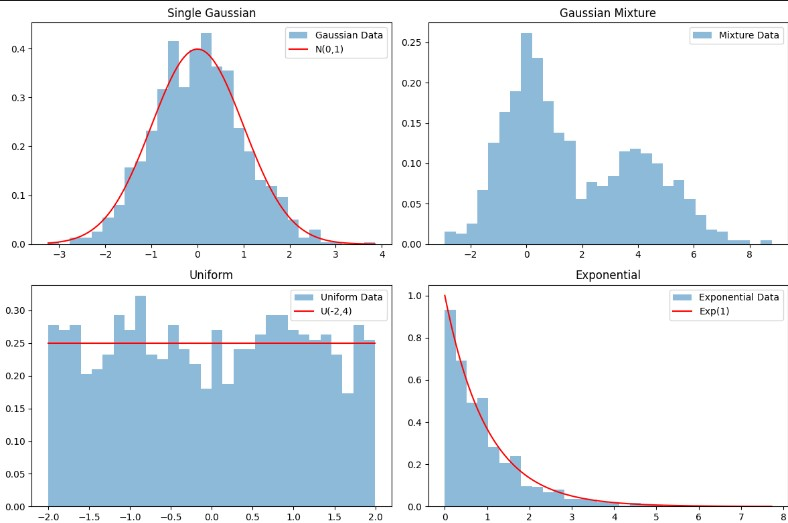
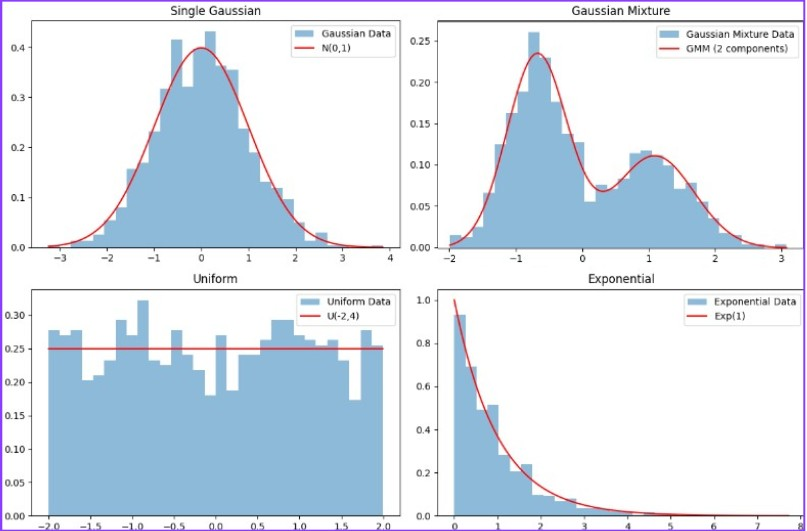
final push

diff --git a/index.html b/index.html
@@ -247,7 +247,7 @@
         <section id="comparison" class="py-20 md:py-24">
             <div class="container mx-auto px-6 max-w-4xl">
                 <div class="text-content text-center">
-                    <h2 class="glow text-4xl lg:text-5xl font-bold text-white mb-4">Log-Likelihood Comparison Across Different Datasets</h2>
+                    <h2 class="glow text-4xl lg:text-5xl font-bold text-white mb-4">Log-Likelihood Comparison on Mixed Distributions</h2>
                     <p class="text-lg text-slate-300 mb-12"></p>
                 </div>
                 <div class="grid grid-cols-1 md:grid-cols-3 gap-8 text-center">
@@ -255,31 +255,31 @@
                         <img onclick="openModal(this.src)" src="gaussian_projection.jpg" alt="Optimize Flow" class="cursor-pointer mb-4 w-32 h-32 object-contain rounded-xl shadow-lg transition-transform duration-200 hover:scale-105">
                         <p class="text-base text-slate-500 mb-2"></p>
                         <h3 class="text-2xl font-bold text-purple-300 mb-3">Actual Fit</h3>
-                        <p class="text-slate-400 text-md">The actual graph of how the data looks like.</p>
+                        <p class="text-slate-400 text-md">The actual fit</p>
                     </div>
                     <div class="glassmorphism p-8 min-h-[420px] rounded-2xl flex flex-col items-center">
                         <img onclick="openModal(this.src)" src="perfect_fit.jpg" alt="Collaborate" class="cursor-pointer mb-4 w-32 h-32 object-contain rounded-xl shadow-lg transition-transform duration-200 hover:scale-105">
                         <p class="text-base text-slate-500 mb-2"></p>
-                        <h3 class="text-2xl font-bold text-purple-300 mb-3">Standard fit</h3>
-                        <p class="text-slate-400 text-md">The graph confirms the Gaussian dataset aligns with N(0,1) (statistic 0.3475 < critical value 0.7840), while Gaussian Mixture (20.1182), Uniform (12.0752), and Exponential (49.7306) are non-Gaussian. This highlights the need for flexible models like Normalizing Flows for LISA’s complex data distributions.</p>
+                        <h3 class="text-2xl font-bold text-purple-300 mb-3">Standard fit using Anderson-Darling Test</h3>
+                        <p class="text-slate-400 text-md">Gaussian dataset aligns with N(0,1) (statistic 0.3475 < critical value 0.7840), while Gaussian Mixture (20.1182), Uniform (12.0752), and Exponential (49.7306) are non-Gaussian distributions.</p>
                     </div>
                     <div class="glassmorphism p-8 min-h-[420px] rounded-2xl flex flex-col items-center">
                         <img onclick="openModal(this.src)" src="GMM_fit.jpg" alt="Test on Data" class="cursor-pointer mb-4 w-32 h-32 object-contain rounded-xl shadow-lg transition-transform duration-200 hover:scale-105">
                         <p class="text-base text-slate-500 mb-2"></p>
                         <h3 class="text-2xl font-bold text-purple-300 mb-3">Gaussian Mixture Model Fit</h3>
-                        <p class="text-slate-400 text-md">The graph shows GMM fits with 1 component for Gaussian data (log-likelihood ~2.20) and 2–3 components for Gaussian Mixture (1.90), Uniform (1.10), and Exponential (1.30). GMMs capture Gaussian-like structures but struggle with non-Gaussian data, highlighting limitations for LISA’s complex signals.</p>
+                        <p class="text-slate-400 text-md">The graph shows how Gaussian Mixture Models (GMMs) fit different types of data using a certain number of components. For Gaussian data, the best fit came from using just 1 component. But for more complex datasets like the Gaussian Mixture, Uniform, and Exponential ones, 2 or 3 components were needed to describe the data better.</p>
                     </div>
                     <div class="glassmorphism p-8 min-h-[420px] rounded-2xl flex flex-col items-center">
-                        <img onclick="openModal(this.src)" src="gmm_vs_nf.jpg" alt="Card 4" class="cursor-pointer mb-4 w-32 h-32 object-contain rounded-xl shadow-lg transition-transform duration-200 hover:scale-105">
+                        <img onclick="openModal(this.src)" src="output.png" alt="Card 4" class="cursor-pointer mb-4 w-32 h-32 object-contain rounded-xl shadow-lg transition-transform duration-200 hover:scale-105">
                         <p class="text-base text-slate-500 mb-2">GMM vs NF</p>
                         <h3 class="text-2xl font-bold text-purple-300 mb-3">Gaussian Mixture Models vs NFs 1D data</h3>
-                        <p class="text-slate-400 text-md">The graph shows NFs not outperforming GMMs on 1D non-Gaussian data (e.g., Gaussian Mixture - Flow LL (mean ± std): -1.4242 ± 0.0449, GMM LL: -1.2886, Flow Advantage: -0.1356) after optimized training.</p>
+                        <p class="text-slate-400 text-md">The graph shows NFs not outperforming GMMs on 1D non-Gaussian data (e.g., Gaussian Mixture - Flow LL (mean ± std): -1.4242 ± 0.0449, GMM LL: -1.2886, Flow Advantage: -0.1356) and Flow KL: 0.0287, GMM KL: 0.0844, (GMM Components: 1) after optimized training.</p>
                     </div>
                     <div class="glassmorphism p-8 min-h-[420px] rounded-2xl flex flex-col items-center">
                         <img onclick="openModal(this.src)" src="nf_vs_gmm_2d.png" alt="Card 5" class="cursor-pointer mb-4 w-32 h-32 object-contain rounded-xl shadow-lg transition-transform duration-200 hover:scale-105">
                         <p class="text-base text-slate-500 mb-2">NF vs GMM 2D</p>
                         <h3 class="text-2xl font-bold text-purple-300 mb-3">NFs vs GMMs 2D Data</h3>
-                        <p class="text-slate-400 text-md">The graph shows NFs still not outperforming GMMs for 2D non-Gaussian data ( Gaussian Mixture - Flow LL: -2.5813 ± 0.1604, GMM LL: -2.3733, Flow Advantage: -0.2080, GMM Components: 2), with smoother contours.</p>
+                        <p class="text-slate-400 text-md">The graph shows NFs still not outperforming GMMs for 2D non-Gaussian data on LL metrics( Gaussian Mixture - Flow LL: -2.5813 ± 0.1604, GMM LL: -2.3733, Flow Advantage: -0.2080, GMM Components: 2), with smoother contours, but KL Divergence scores may be better (for future reference).</p>
                     </div>
                     <div class="glassmorphism p-8 min-h-[420px] rounded-2xl flex flex-col items-center">
                         <img onclick="openModal(this.src)" src="nf_vs_gmm_3d.png" alt="Card 6" class="cursor-pointer mb-4 w-32 h-32 object-contain rounded-xl shadow-lg transition-transform duration-200 hover:scale-105">
